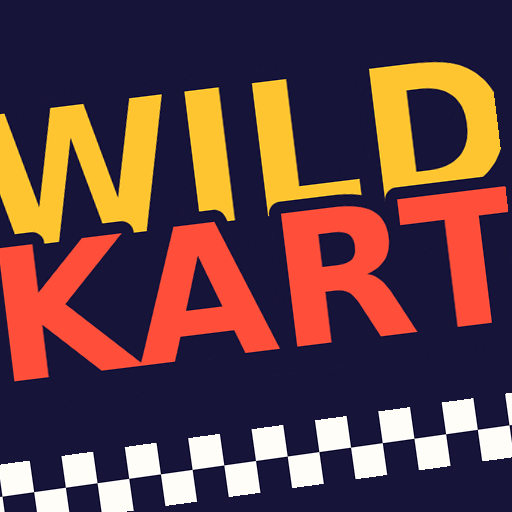
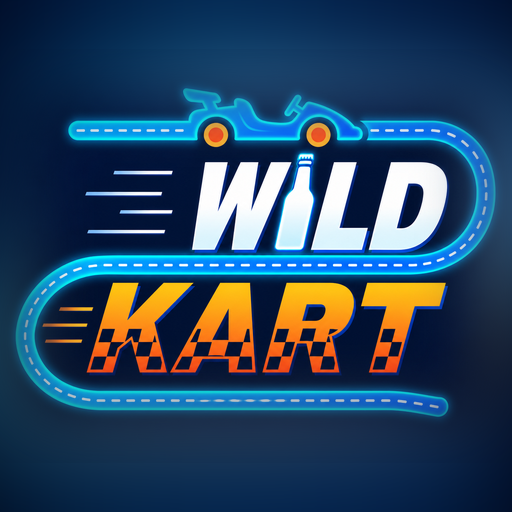
Appli : icône officielle et démarrage sans double chargement
- Icône (pleine et adaptative) et écran de démarrage natif générés depuis le
  logo officiel ; icônes web embarquées remplacées ; fond #01051a (celui du logo).
- boot.js : écran d'attente au logo pendant la vérification du site ; l'ancienne
  version embarquée (game.js) n'est chargée qu'en repli hors ligne. Chargée
  d'office, son initialisation bloquait la page plus de 5 s : la réponse du site
  arrivait trop tard et l'appli restait sur l'ancienne version et son ancien
  chargement.
Testé en navigateur headless : en ligne → redirection vers wild-kart-public ;
hors ligne → jeu embarqué démarré, sans erreur.

Claude-Session: https://claude.ai/code/session_01ByriiShE36H5gr7Pdm5bms

diff --git a/www/boot.js b/www/boot.js
@@ -4,16 +4,32 @@ window.TK_APP = true;
 document.documentElement.classList.add('app');
 // mises à jour sans réinstaller : si internet marche, l'appli ouvre le jeu à jour sur le site.
 // La première fois, les données de ce téléphone (amis, code, kart…) sont emportées avec.
+// Écran d'attente au logo officiel pendant la vérification du site : sans lui, l'ancienne version embarquée démarrait
+// (ancien écran de chargement) puis la page était remplacée par le site et sa propre animation (deux chargements enchaînés).
+var WKA = null;
+function wkAttente(on) {
+  try {
+    if (on && !WKA) { WKA = document.createElement('div'); WKA.id = 'wk-attente';
+      WKA.setAttribute('style', 'position:fixed;inset:0;z-index:99999;background:#01051a;display:flex;align-items:center;justify-content:center');
+      WKA.innerHTML = '<img src="icon-512.png" alt="Wild Kart" style="width:min(56vh,56vw);height:auto">'; (document.body || document.documentElement).appendChild(WKA); }
+    else if (!on && WKA) { WKA.parentNode.removeChild(WKA); WKA = null; }
+  } catch (e) { /* rien */ }
+}
+// Version embarquée (repli hors ligne) : chargée seulement si le site ne répond pas. Chargée d'office, son initialisation
+// (plusieurs secondes sur téléphone) bloquait la page : la réponse du site arrivait après le délai et l'appli restait sur l'ancienne version.
+var wkLocal = false;
+function wkJeuLocal() { if (wkLocal) return; wkLocal = true; wkAttente(false); var s = document.createElement('script'); s.src = 'game.js?v=da2663d0'; document.body.appendChild(s); }
 (function () {
   var SITE = 'https://moutmout123.github.io/wild-kart-public/';
-  if (location.hostname !== 'localhost' || /[?&]local=1/.test(location.search)) return;
-  var done = false, t = setTimeout(function () { done = true; }, 5000);
+  if (location.hostname !== 'localhost' || /[?&]local=1/.test(location.search)) return wkJeuLocal();
+  wkAttente(true);
+  var done = false, t = setTimeout(function () { done = true; wkJeuLocal(); }, 6000);
   fetch(SITE + 'version.json?t=' + Date.now(), { cache: 'no-store' }).then(function (r) { if (!r.ok) throw 0; return r.json(); }).then(function (j) {
-    if (done || !j || !j.v) return; clearTimeout(t); var data = null, first = false;
+    if (done || !j || !j.v) { wkJeuLocal(); return; } clearTimeout(t); var data = null, first = false;
     try { data = localStorage.getItem('tiltkart.v1'); first = !localStorage.getItem('wk-migre3'); localStorage.setItem('wk-migre3', '1'); } catch (e) { /* rien */ }
     var imp = data && first ? '#import=' + encodeURIComponent(btoa(unescape(encodeURIComponent(data)))) : '';
     // Nouvelle adresse publique (même origine moutmout123.github.io que l'ancienne : les données déjà enregistrées sur le site sont conservées).
     // L'ancienne page Netlify renvoyait vers l'adresse fermée : on n'y passe plus.
     location.replace(SITE + '?app=1' + imp);
-  }).catch(function () { /* pas d'internet ou site indisponible : on joue avec la version de l'appli */ });
+  }).catch(function () { /* pas d'internet ou site indisponible : on joue avec la version de l'appli */ clearTimeout(t); done = true; wkJeuLocal(); });
 })();

diff --git a/www/index.html b/www/index.html
@@ -866,6 +866,6 @@ body{font-size:16px}
 <script src="peerjs.min.js"></script>
 <script src="nacl.min.js"></script>
 <script src="boot.js?v=da2663d0"></script>
-<script src="game.js?v=da2663d0"></script>
+<!-- game.js (version embarquée) est chargé par boot.js seulement si le site en ligne est indisponible -->
 </body>
 </html>
